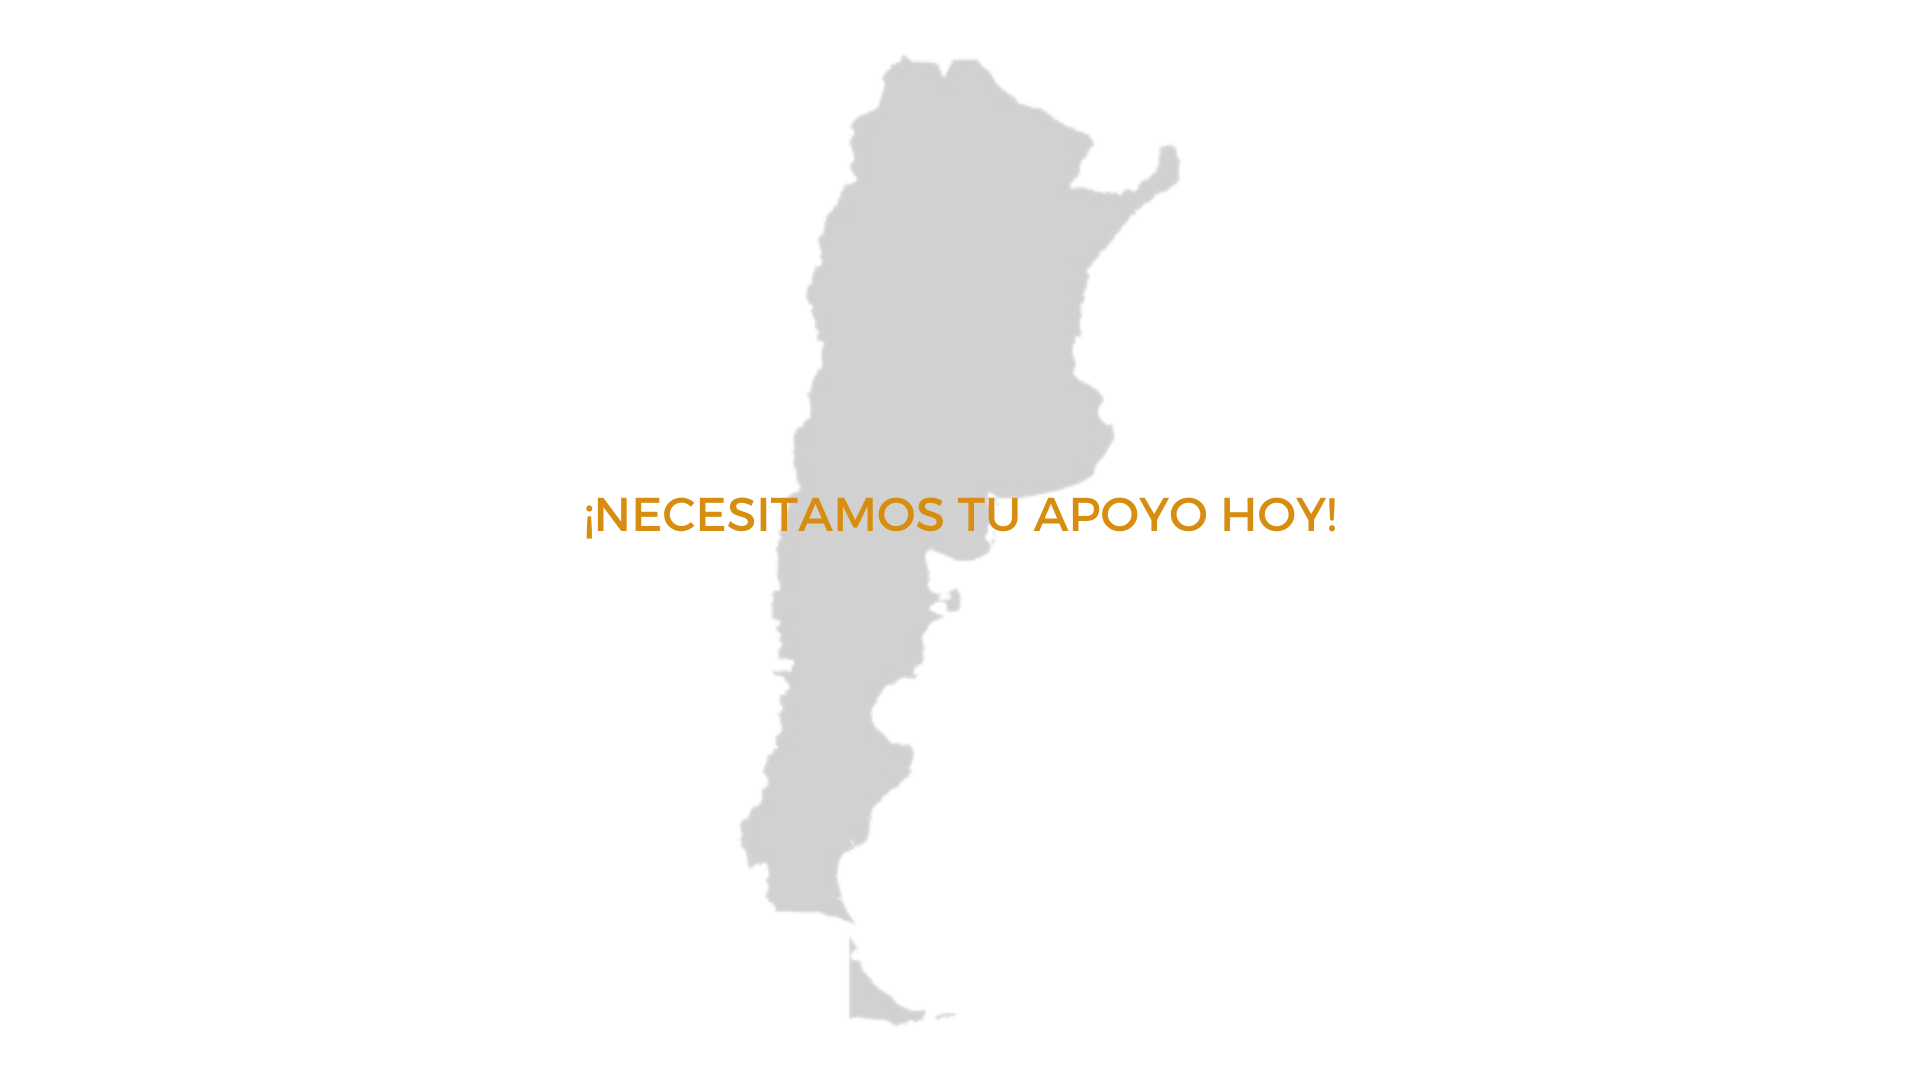
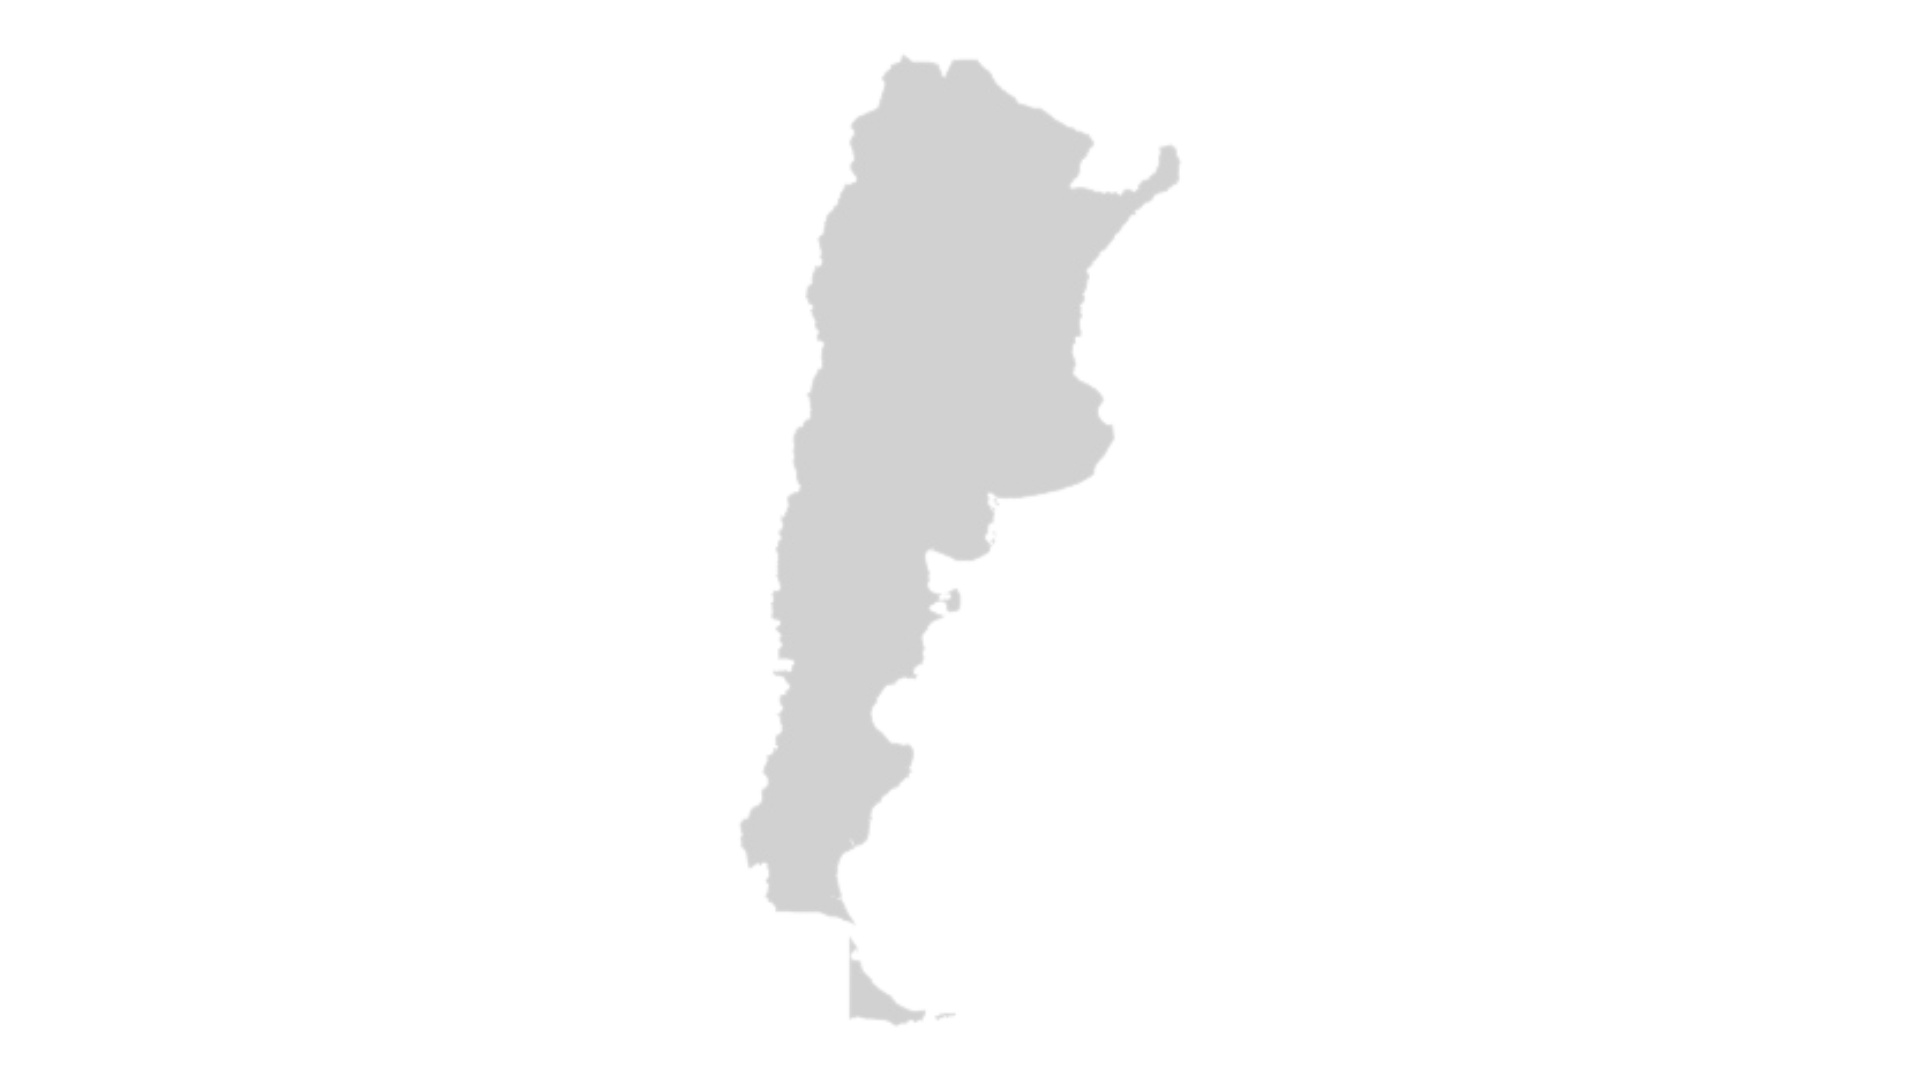
mapa nuevo

Changed region(s): [[0.3125, 0.4583, 0.6875, 0.4889]]

diff --git a/front/src/components/Reality/Reality.jsx b/front/src/components/Reality/Reality.jsx
@@ -4,41 +4,55 @@ import "./index.css";
 const Reality = () => {
   return (
     <>
-      <div className="container-fluid reality-center">
-      {/* <h2 className="reality-title">LA URGENCIA NO ESPERA</h2> */}
-        <div className="row">
-          <div className="card bolitas-left img-reality col-lg-6 col-sm-6 col-xs-12">
-            <div className="card-body">
+    
+        <div className="container-fluid reality-center ">
+     {/*    <div className=""> hola </div> */}
+          <div className="container map-background" >
+            <div className="row align-pelotitas">
+
               <h5 className="card-title2">72%</h5>
+              <div className="img-reality col-lg-3 col-sm-6 col-xs-12">
+                <div className="">
+                  <div className="card-text reality-text left-text-bolitas">
+                    Sin acceso formal al servicio de energía eléctrica
+                  </div>
+                </div>
+              </div>
 
-              <p className="card-text reality-text">
-                Sin acceso formal al servicio de energía eléctrica
-              </p>
+              <div className="img-reality  col-lg-3 col-sm-3 col-xs-12">
+                <div className=" ">
+                  <div className="card-text reality-text right-text-bolitas">
+                    Sin acceso formal a la red de agua potable
+                  </div>
+                </div>
+              </div>
+              <h5 className="card-title2 ">94%</h5>
 
             </div>
-          </div>
-          <div className="card img-reality  col-lg-6 col-sm-6 col-xs-12">
-            <div className="card-body ">
-              <h5 className="card-title2 bolitas-right">94%</h5>
-              <p className="card-text reality-text">
-                Sin acceso formal a la red de agua potable
-              </p>
+            <p className='img-text-map'>¡NECESITAMOS TU APOYO HOY!</p>
+            <div >
+
+              <div className="row align-pelotitas">
+
+                <h5 className="card-title2">98%</h5>
+                <div className="img-reality col-lg-3 col-sm-3 col-xs-12">
+                  <div className="">
+                    <div className="card-text reality-text left-text-bolitas">Sin acceso formal a la red cloacal</div>
+                  </div>
+                </div>
+
+                <div className="img-reality  col-lg-3 col-sm-3 col-xs-12">
+                  <div>
+                    <div className="card-text reality-text right-text-bolitas">Se inunda cada vez que llueve</div>
+                  </div>
+                </div>
+                <h5 className="card-title2 ">60%</h5>
+
+              </div>
             </div>
+
           </div>
-          <div className="card bolitas-left img-reality col-lg-6 col-sm-6 col-xs-12">
-            <div className="card-body">
-              <h5 className="card-title2">98%</h5>
-              <p className="card-text reality-text">Sin acceso formal a la red cloacal</p>
-            </div>
-          </div>
-          <div className="card img-reality  col-lg-6 col-sm-6 col-xs-12">
-            <div className="card-body">
-              <h5 className="card-title2 bolitas-right">60%</h5>
-              <p className="card-text reality-text">Se inunda cada vez que llueve</p>
-            </div>
-          </div>
-        </div>
-      {  <h2 className="reality-title reality-footer">EN ARGENTINA HAY 4400 BARRIOS POPULARES QUE VIVEN ESTA REALIDAD CADA DÍA</h2>}
+       
       </div>
     </>
   );

diff --git a/front/src/components/Reality/index.css b/front/src/components/Reality/index.css
@@ -1,65 +1,28 @@
-@media (min-width: 1600px) {
-  /* hecho exclusivamente para pantallas grandes */
-  .card-title2 {
-    font-size: 80px;
-    width: 200px;
-    height: 200px;
-    line-height: 190px;
-    margin-right: 5%;
-  }
-  .reality-text {
-    font-size: 2em; /* hecho exclusivamente para pantallas grandes */
-  }
-}
-card-body {
-  text-align: center;
-  border: none;
-}
 .card-title2:hover {
   background-color: #e66444;
-  -webkit-transform: scale(1.2);
+  -webkit-transform: scale(1.1);
   transition: transform 1.5s cubic-bezier(0.175, 0.885, 0.32, 1.275);
 }
 
 .reality-center {
   text-align: center;
-  background-image: url("../../assets/mapa_imagen.png");
-  height: 75vh;
-  width: 100%;
+}
+
+.map-background {
+  background: url("../../assets/mapa_imagen.png");
   background-repeat: no-repeat;
-  background-size: cover;
-  background-position: center;
+  background-position: 50% 50%;
+  background-size: 60% 110%;
 }
 
-@media(min-width: 1200px){
-  .reality-center{
-    background-image: url("../../assets/mapa_imagen.png");
-    height: 80%;
-    width: 80%;
-    margin-bottom: 3%;
-  }
-  .reality-text {
-    display: flex;
-    transform: scale(1) translate(120%, -120%);
-    font-size: 1.2em;
-    max-width: 30%;
-  }
-}
-
-
-.img-reality{
+.img-reality {
   border: none;
+  display: flex;
+  align-items: center;
 }
 
 .reality-text {
-  display: flex;
-  transform: scale(1) translate(125%, -120%);
   font-size: 1.2em;
-  max-width: 30%;
-}
-
-.reality-text-right {
-  transform: scale(1) translate(28%, -330%);
 }
 
 .reality-title {
@@ -75,12 +38,6 @@ card-body {
   font-weight: bolder;
 }
 
-
-
-.bolitas-right {
-  margin-left: 77%;
-  text-align: center;
-}
 .card-title2 {
   border: none;
   width: 150px;
@@ -93,19 +50,60 @@ card-body {
   font-weight: bolder;
 }
 
-.card{
-  background-color: rgba(230, 100, 68, 0)!important;
+.align-pelotitas {
+  display: flex;
+  justify-content: space-around;
+  width: 100%;
 }
 
-.reality-footer {
-  
-  color: black;
-  line-height: 50px;
-  background-color: rgb(0, 146, 221);
-  text-align: center;
-  font-size: large;
-  margin-bottom: 2%;
-  padding-top: 1%;
-  padding-bottom: 1%;
-  border-radius: 20px;
+.left-text-bolitas {
+  display: flex;
+  text-align: left;
+  margin-left: -25%;
+  width: 75%;
+}
+
+.right-text-bolitas {
+  display: flex;
+  text-align: right;
+  margin-left: 50%;
+  width: 70%;
+}
+
+.img-text-map {
+  display: flex;
+  font-size: 40px;
+  font-weight: bolder;
+  justify-content: center;
+  align-items: center;
+  color: rgb(215, 142, 1);
+}
+
+
+@media (min-width: 1600px) {
+  .card-title2 {
+    font-size: 80px;
+    width: 200px;
+    height: 200px;
+    line-height: 190px;
+    margin-right: 5%;
+  }
+  .reality-text {
+    font-size: 2em; 
+  }
+}
+
+@media(min-width: 1200px){
+  .reality-center{
+    background-image: url("../../assets/mapa_imagen.png");
+    height: 80%;
+    width: 80%;
+    margin-bottom: 3%;
+  }
+  .reality-text {
+    display: flex;
+    transform: scale(1) translate(120%, -120%);
+    font-size: 1.2em;
+    max-width: 30%;
+  }
 }

diff --git a/front/src/App.js b/front/src/App.js
@@ -11,6 +11,7 @@ import Testimony from "./components/Testimony/Testimony";
 import { Banner1 } from "./components/Banner/Banner1";
 import { Banner2 } from "./components/Banner/Banner2";
 import { Banner3 } from "./components/Banner/Banner3";
+import { Banner4 } from "./components/Banner/Banner4";
 
 
 const Numbers = loadable(() => import("./components/Numbers/Numbers"))
@@ -34,6 +35,7 @@ function App() {
       <Testimony />
       <Banner3 />
       <Reality />
+      <Banner4 />
 
       <Footer />
     </div>

diff --git a/front/src/components/Banner/Banner4.jsx b/front/src/components/Banner/Banner4.jsx
@@ -1,0 +1,16 @@
+import React from "react";
+import "./index.css";
+
+export const Banner4 = () => {
+  return (
+    <div>
+      <div className="container-fluid ">
+        <div className="row banner">
+          <h2 className="texto-aporte col-lg-9 col-md-9 col-sm-9 col-xs-9" id='texto-black'>
+          EN ARGENTINA HAY 4400 BARRIOS POPULARES QUE VIVEN ESTA REALIDAD CADA DÍA
+          </h2>
+        </div>
+      </div>
+    </div>
+  );
+}

diff --git a/front/src/components/Banner/index.css b/front/src/components/Banner/index.css
@@ -10,9 +10,14 @@
     border-radius: 20px;
 }
 
+#texto-black{
+    color:black
+}
+
 .banner {
     display: flex;
     justify-content: center;
     padding-top: 2%;
 }
+
 
